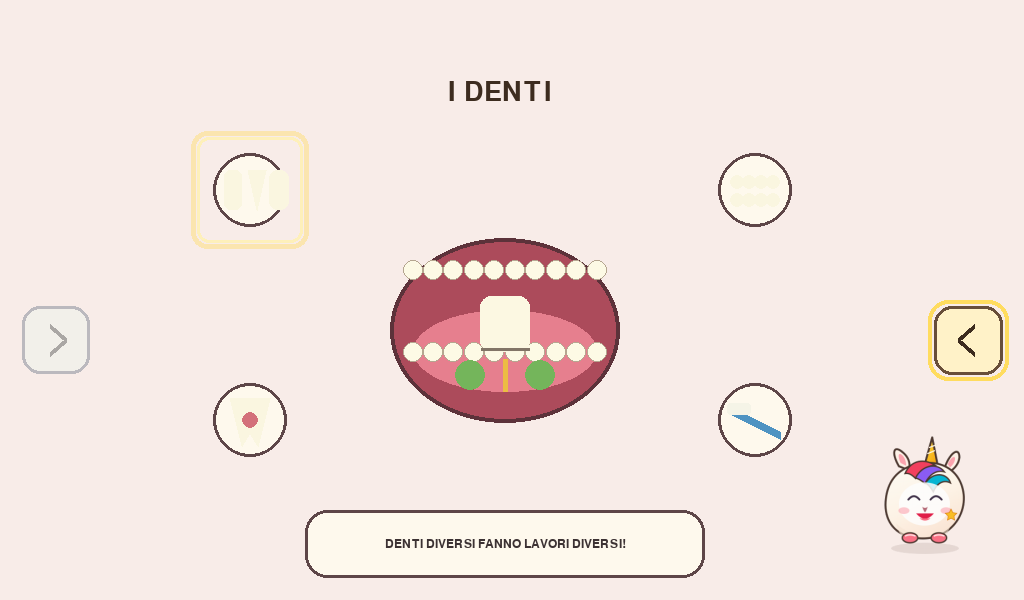
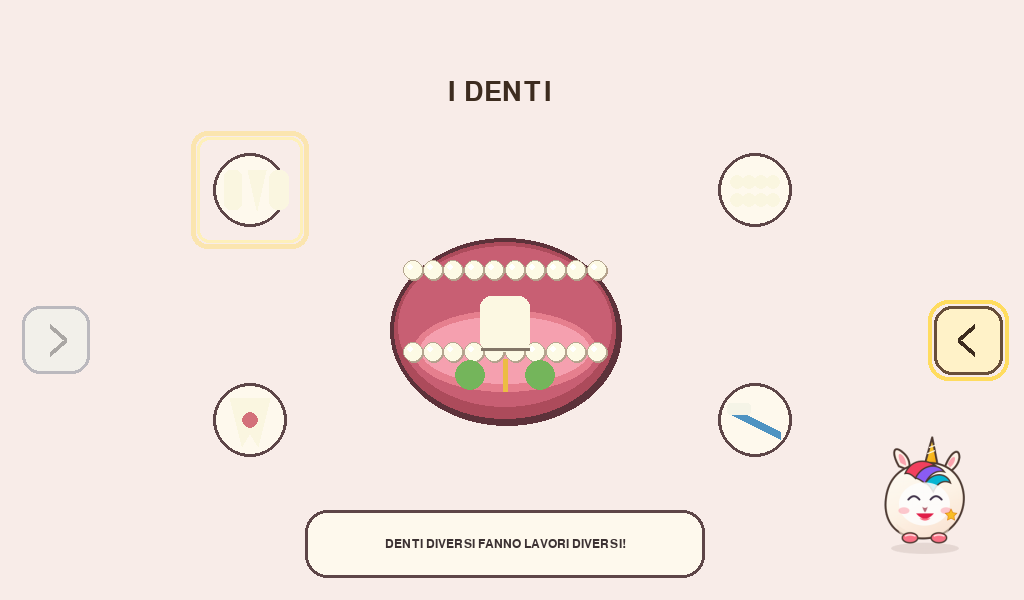
Encyclopedia: iterate body.teeth - mouth highlight/shadow + tooth depth
Iterative polish. Mouth now with highlight/shadow, teeth with shadow/highlight.

Changed region(s): [[0.375, 0.39, 0.625, 0.72]]

diff --git a/activities/enciclopedia_greia/pages/teeth.py b/activities/enciclopedia_greia/pages/teeth.py
@@ -178,10 +178,13 @@ class TeethPage(EncyclopediaPage):
 
     def _draw_mouth(self, surface: pygame.Surface) -> None:
         mouth = pygame.Rect(390, 238, 230, 185)
+        # Lips with highlight and shadow
+        pygame.draw.ellipse(surface, (92, 50, 58), mouth.move(2, 3))
         pygame.draw.ellipse(surface, (172, 75, 91), mouth)
+        pygame.draw.ellipse(surface, (200, 95, 115), (mouth.x + 8, mouth.y + 8, mouth.width - 16, mouth.height - 24))
         pygame.draw.ellipse(surface, (92, 50, 58), mouth, 4)
         pygame.draw.ellipse(surface, (230, 127, 142), (413, 310, 184, 82))
-
+        pygame.draw.ellipse(surface, (245, 160, 175), (420, 316, 170, 68))
         # A complete primary set has 20 teeth; the permanent comparison has 32.
         # The rows are schematic and evenly spaced for readability, not a dental chart.
         per_row = 16 if self._show_permanent else 10
@@ -192,8 +195,10 @@ class TeethPage(EncyclopediaPage):
         for row_y in (270, 352):
             for index in range(per_row):
                 x = int(start_x + index * gap)
-                color = (253, 250, 229)
-                pygame.draw.circle(surface, color, (x, row_y), radius)
+                # Tooth with shadow and highlight
+                pygame.draw.circle(surface, (180, 160, 140), (x + 1, row_y + 1), radius)
+                pygame.draw.circle(surface, (253, 250, 229), (x, row_y), radius)
+                pygame.draw.circle(surface, (255, 255, 255, 90), (x - 3, row_y - 3), max(1, radius // 3))
                 pygame.draw.circle(surface, (181, 166, 144), (x, row_y), radius, 1)
 
         self._draw_job_demo(surface)
